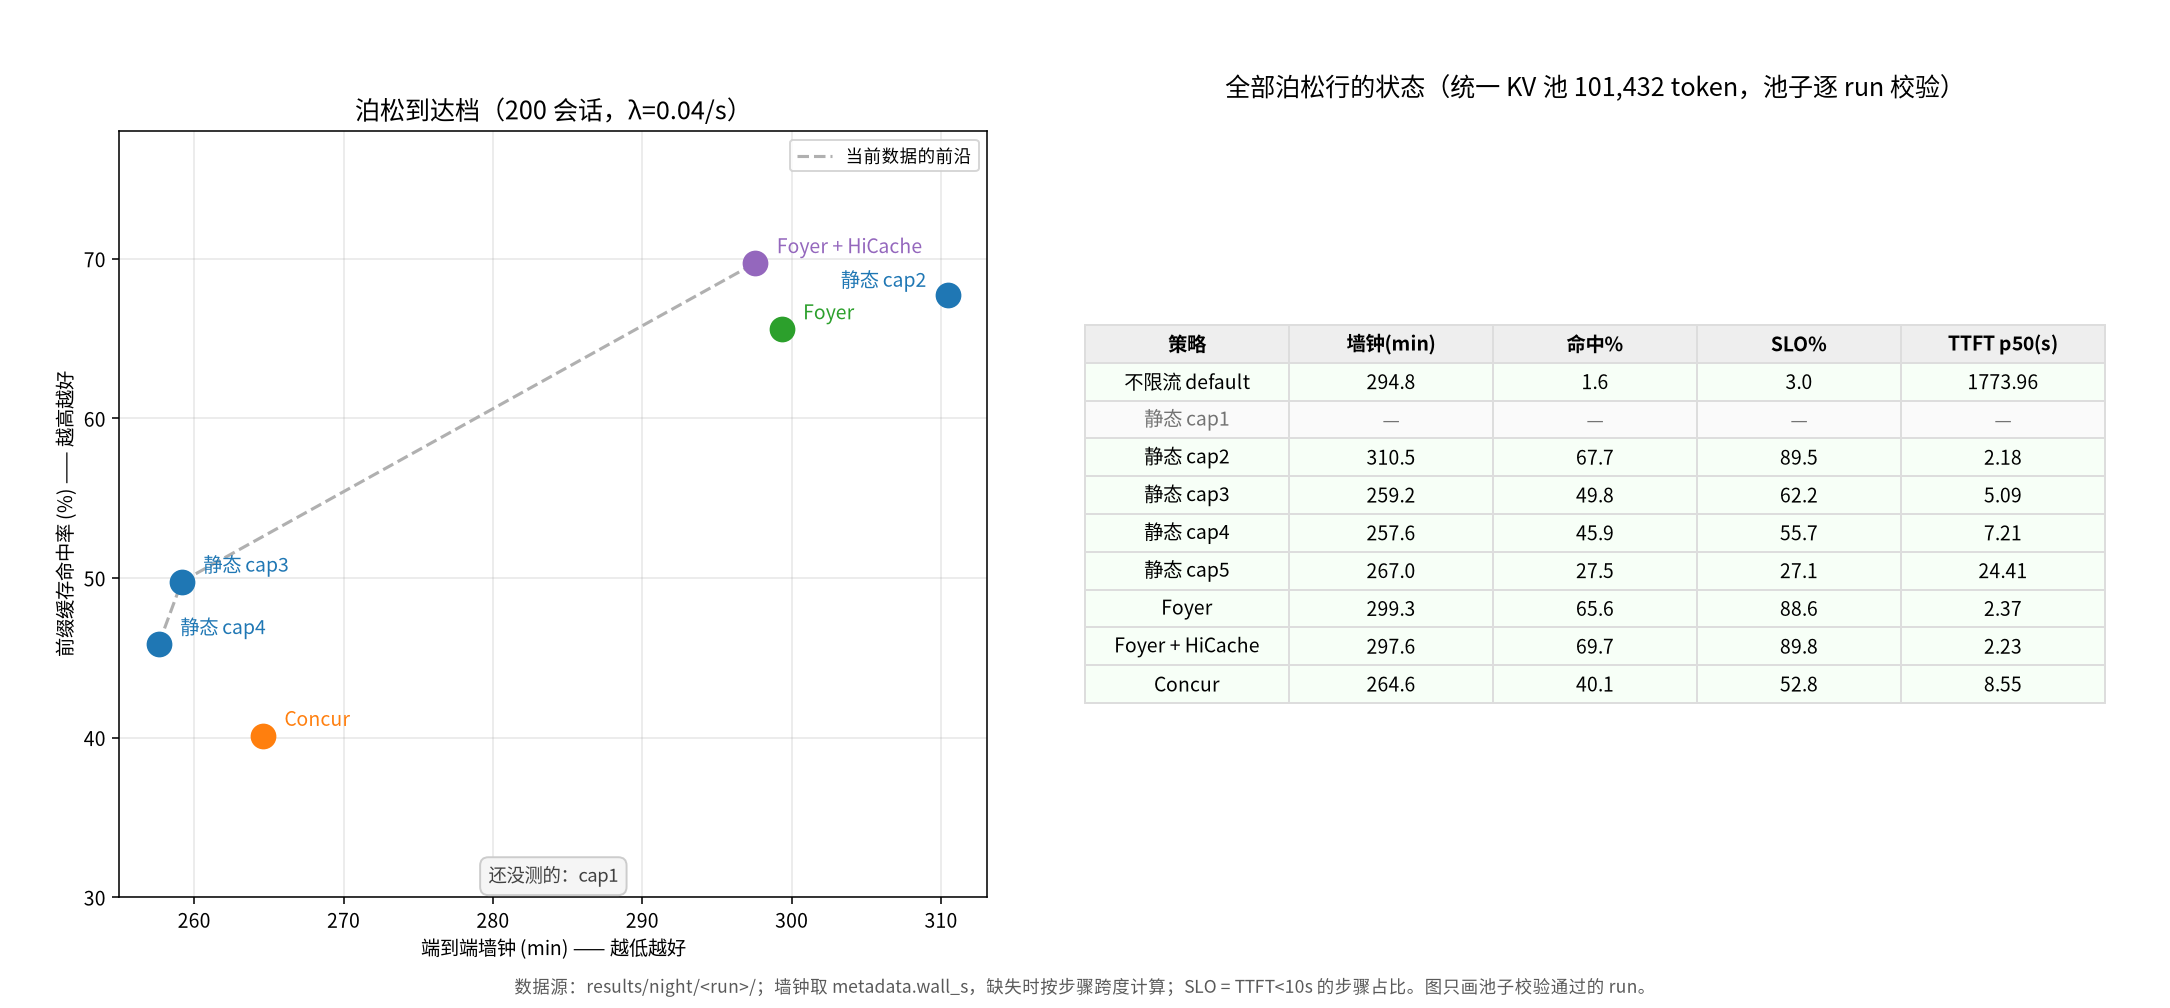
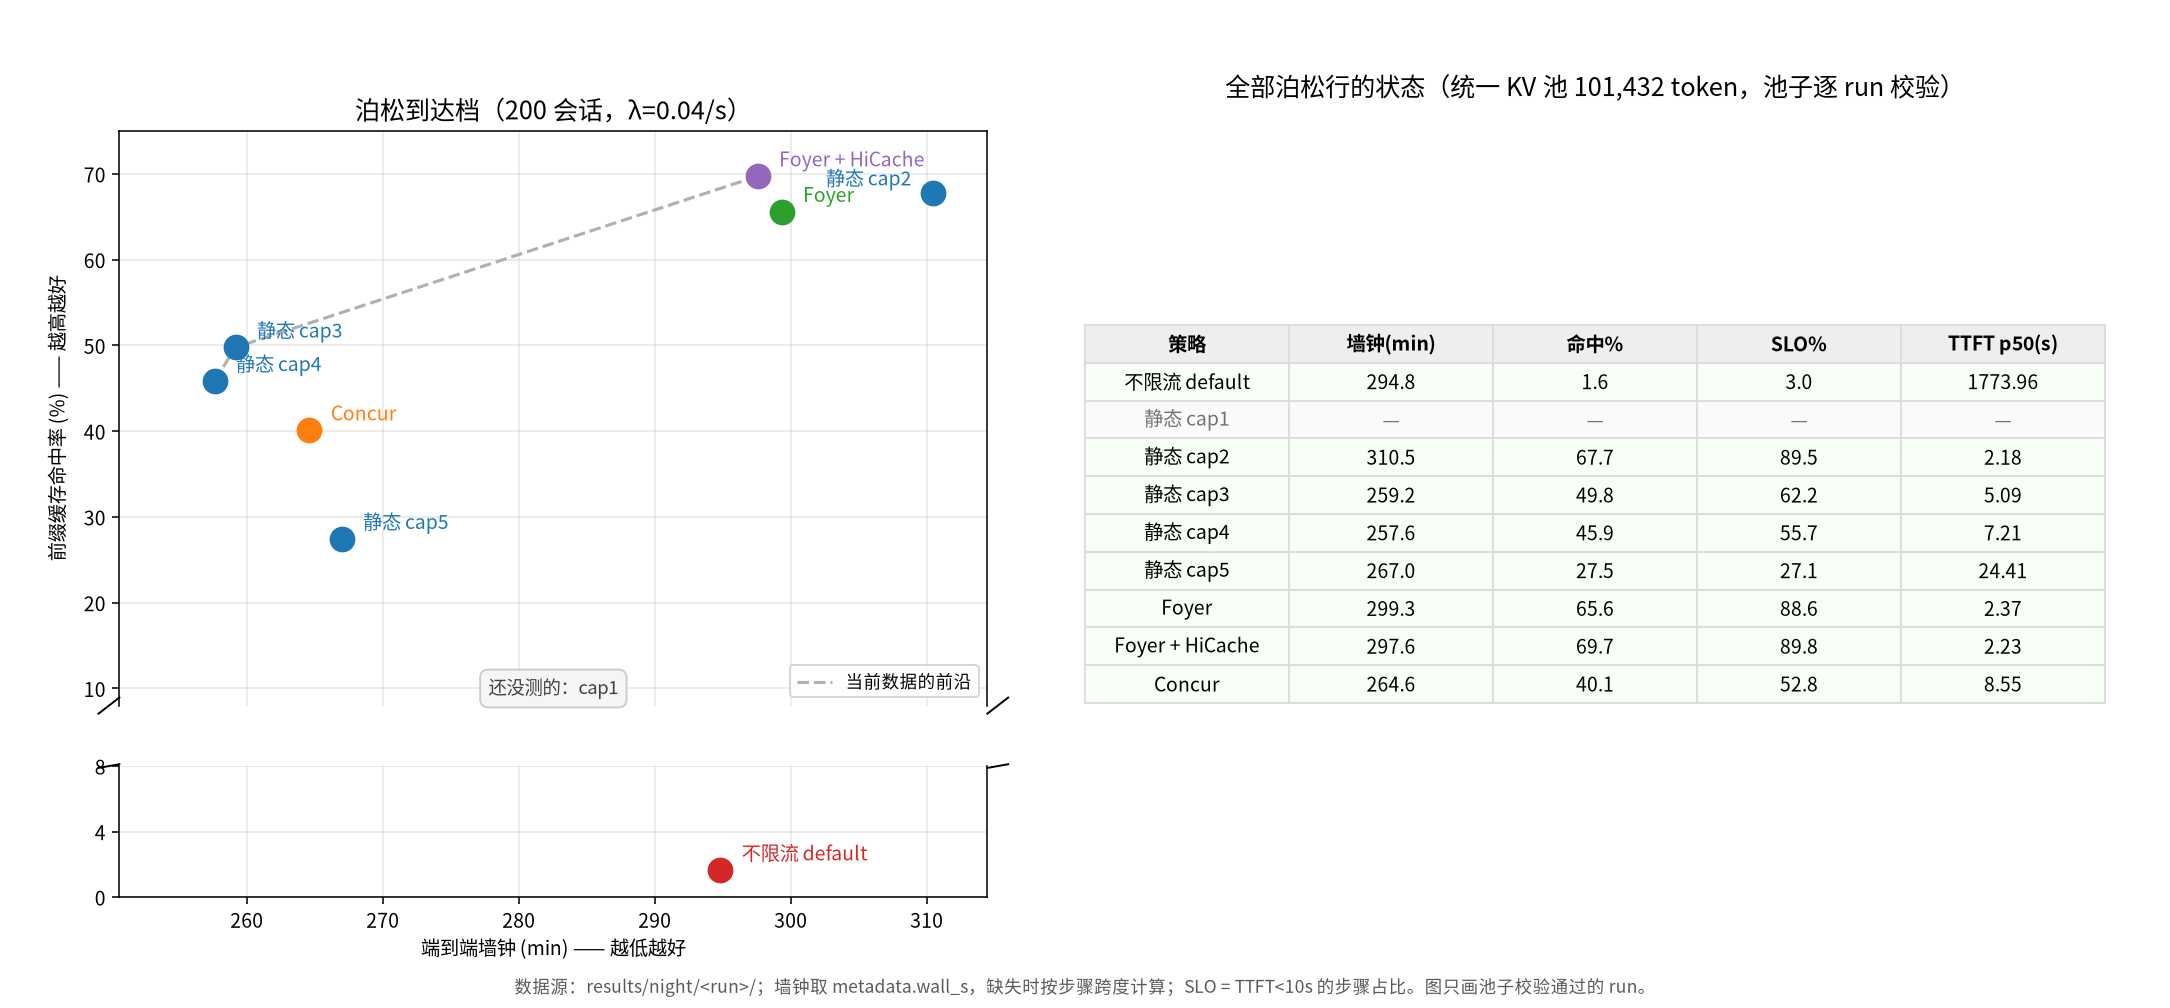
fig: broken y-axis so cap5 and default stop being clipped
The panel had ylim (30, 78) while cap5 measures 27.5% and default 1.6%, so the
plot showed a subset of the runs its own table listed. Widening to (0, 78) made
them appear but squashed the 40-70 cluster — the part that carries the whole
tradeoff — into the top third and left half the panel empty.

Split the axis instead: a tall upper panel from 8 to 75 for every policy, and a
short lower panel from 0 to 8 for the no-control corner, with diagonal break
marks at the join. The frontier is drawn whole on the upper axis because its
lowest point is cap4 at 45.9%.

Legend moved from upper right to lower right: the shorter upper panel had pushed
it down onto the Foyer + HiCache label, and the bottom-right of that panel is
empty (nothing sits between y=10 and y=25 beyond x=300).

diff --git a/paper/figs/fig_poisson_status.py b/paper/figs/fig_poisson_status.py
@@ -91,21 +91,33 @@ def main():
             data[label] = load(run)
 
     fig = plt.figure(figsize=(15.5, 7.2))
-    ax = fig.add_axes([0.055, 0.11, 0.40, 0.76])
+    # Broken y-axis. Measured hit rates span 1.6% (uncontrolled) to 69.7%, and one
+    # linear axis can't hold both: at (30, 78) cap5 and default fell off the panel
+    # while the table still listed them, and at (0, 78) the 40-70 cluster that
+    # carries the entire tradeoff got squashed into the top third. Split into a
+    # tall upper panel (the cluster) and a short lower one (the thrashing corner).
+    SPLIT = 8.0
+    ax = fig.add_axes([0.055, 0.30, 0.40, 0.57])       # upper: every policy but default
+    ax_lo = fig.add_axes([0.055, 0.11, 0.40, 0.13])    # lower: the no-control corner
+
+    def panel_for(y):
+        return ax_lo if y <= SPLIT else ax
 
     # ---- left: Pareto -------------------------------------------------------
     for label, run, colour, _s in ROWS:
         if label not in data:
             continue
         d = data[label]
-        ax.scatter([d["wall"]], [d["hit"]], s=150, marker="o",
-                   color=colour, zorder=5)
+        a = panel_for(d["hit"])
+        a.scatter([d["wall"]], [d["hit"]], s=150, marker="o", color=colour, zorder=5)
         # Name only — the numbers live in the table on the right.
         dx, dy, ha = (11, 5, "left")
         if label.startswith("静态 cap2"):
             dx, dy, ha = (-11, 4, "right")
-        ax.annotate(label, (d["wall"], d["hit"]), textcoords="offset points",
-                    xytext=(dx, dy), fontsize=10, color=colour, ha=ha)
+        a.annotate(label, (d["wall"], d["hit"]), textcoords="offset points",
+                   xytext=(dx, dy), fontsize=10, color=colour, ha=ha)
+    # The frontier never reaches the lower panel (cap4 at 45.9% is its lowest
+    # point), so it is drawn whole on the upper axis.
     pts = sorted([(d["wall"], d["hit"]) for d in data.values()])
     frontier = []
     for w, h in pts:
@@ -114,16 +126,36 @@ def main():
     if len(frontier) > 1:
         ax.plot([p[0] for p in frontier], [p[1] for p in frontier], "--",
                 color=GRAY, lw=1.6, zorder=1, label="当前数据的前沿")
+
+    xs = [d["wall"] for d in data.values()]
+    for a in (ax, ax_lo):
+        a.set_xlim(min(xs) - 7, max(xs) + 4)
+        a.grid(alpha=0.3)
+    ax.set_ylim(SPLIT, 75)
+    ax_lo.set_ylim(0, SPLIT)
+    ax.set_yticks([10, 20, 30, 40, 50, 60, 70])
+    ax_lo.set_yticks([0, 4, 8])
+    ax.tick_params(labelbottom=False, bottom=False)
+    ax.spines["bottom"].set_visible(False)
+    ax_lo.spines["top"].set_visible(False)
+    # diagonal break marks at the join
+    for a_, ys in ((ax, (-0.014, 0.014)), (ax_lo, (0.986, 1.014))):
+        for xside in (-0.012, 1.012):
+            a_.plot([xside - 0.012, xside + 0.012], list(ys),
+                    transform=a_.transAxes, color="k", lw=1, clip_on=False)
+
     pending = [label for label, _r, _c, _s in ROWS if label not in data]
-    note = "还没测的：" + "、".join(l.replace("静态 ", "") for l in pending)
-    ax.text(0.5, 0.02, note, transform=ax.transAxes, ha="center", fontsize=9.5,
-            color="0.25", bbox=dict(boxstyle="round,pad=0.45", fc="#f5f5f5", ec="0.8"))
-    ax.set_xlabel("端到端墙钟 (min) —— 越低越好")
-    ax.set_ylabel("前缀缓存命中率 (%) —— 越高越好")
+    if pending:
+        note = "还没测的：" + "、".join(l.replace("静态 ", "") for l in pending)
+        ax.text(0.5, 0.02, note, transform=ax.transAxes, ha="center", fontsize=9.5,
+                color="0.25", bbox=dict(boxstyle="round,pad=0.45", fc="#f5f5f5", ec="0.8"))
+    ax_lo.set_xlabel("端到端墙钟 (min) —— 越低越好")
+    ax.set_ylabel("前缀缓存命中率 (%) —— 越高越好", labelpad=8)
     ax.set_title("泊松到达档（200 会话，λ=0.04/s）", fontsize=13)
-    ax.grid(alpha=0.3)
-    ax.set_ylim(30, 78)
-    ax.legend(loc="upper right", fontsize=9)
+    # Lower right, not upper: the shorter upper panel pushed the legend down onto
+    # the Foyer + HiCache label, and the bottom-right of this panel is empty
+    # (nothing sits between y=10 and y=25 out at x>300).
+    ax.legend(loc="lower right", fontsize=9)
 
     # ---- right: status table -------------------------------------------------
     ax2 = fig.add_axes([0.50, 0.11, 0.47, 0.76])
